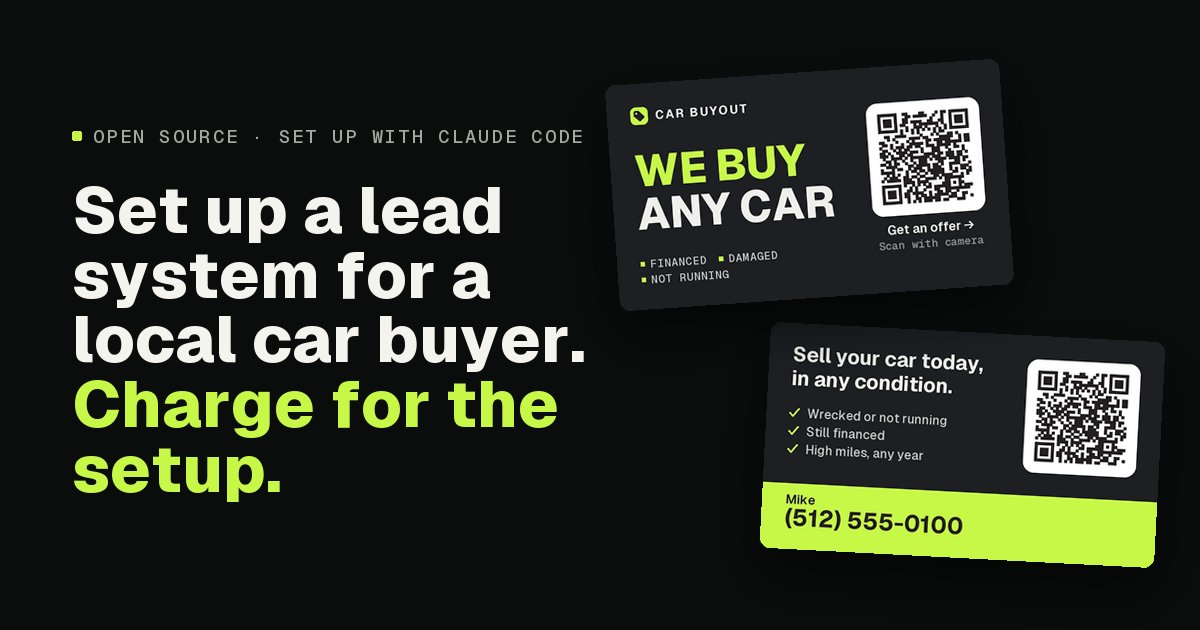
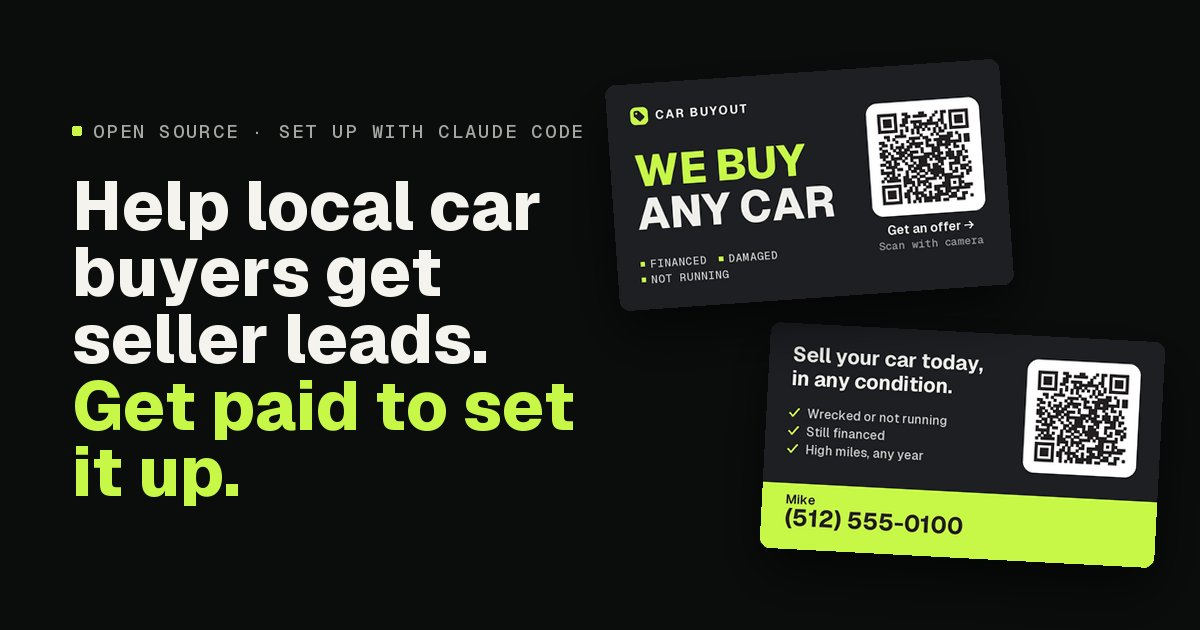
docs(page): a lighter headline, without "setup" twice
The link preview follows it.

diff --git a/docs/index.html b/docs/index.html
@@ -9,7 +9,7 @@
   <!-- The preview a messenger shows under a link (tools/make_page_preview.py draws the picture). -->
   <meta property="og:type" content="website">
   <meta property="og:url" content="https://ilyaxxing.github.io/cash-for-cars-lead-system/">
-  <meta property="og:title" content="Set up a lead system for a local car buyer. Charge for the setup.">
+  <meta property="og:title" content="Help local car buyers get seller leads. Get paid to set it up.">
   <meta property="og:description" content="Brand and deploy a seller form, a lead dashboard and phone notifications for a local car buyer. Claude Code does most of the technical work. Open source.">
   <meta property="og:image" content="https://ilyaxxing.github.io/cash-for-cars-lead-system/assets/preview.jpg">
   <meta property="og:image:width" content="1200">
@@ -176,7 +176,7 @@
     <div class="hero">
       <div>
         <div class="kicker">Open source · Set up with Claude Code</div>
-        <h1>Set up a lead system for a local car buyer. <em>Charge for the setup.</em></h1>
+        <h1>Help local car buyers get seller leads. <em>Get paid to set it up.</em></h1>
         <p class="lead">Brand and deploy the seller form, the lead dashboard and phone notifications for a local business. Claude Code does most of the technical work; you guide the setup and handle the client.</p>
         <div class="cta">
           <a class="button primary" href="#demo">Try the live demo</a>
